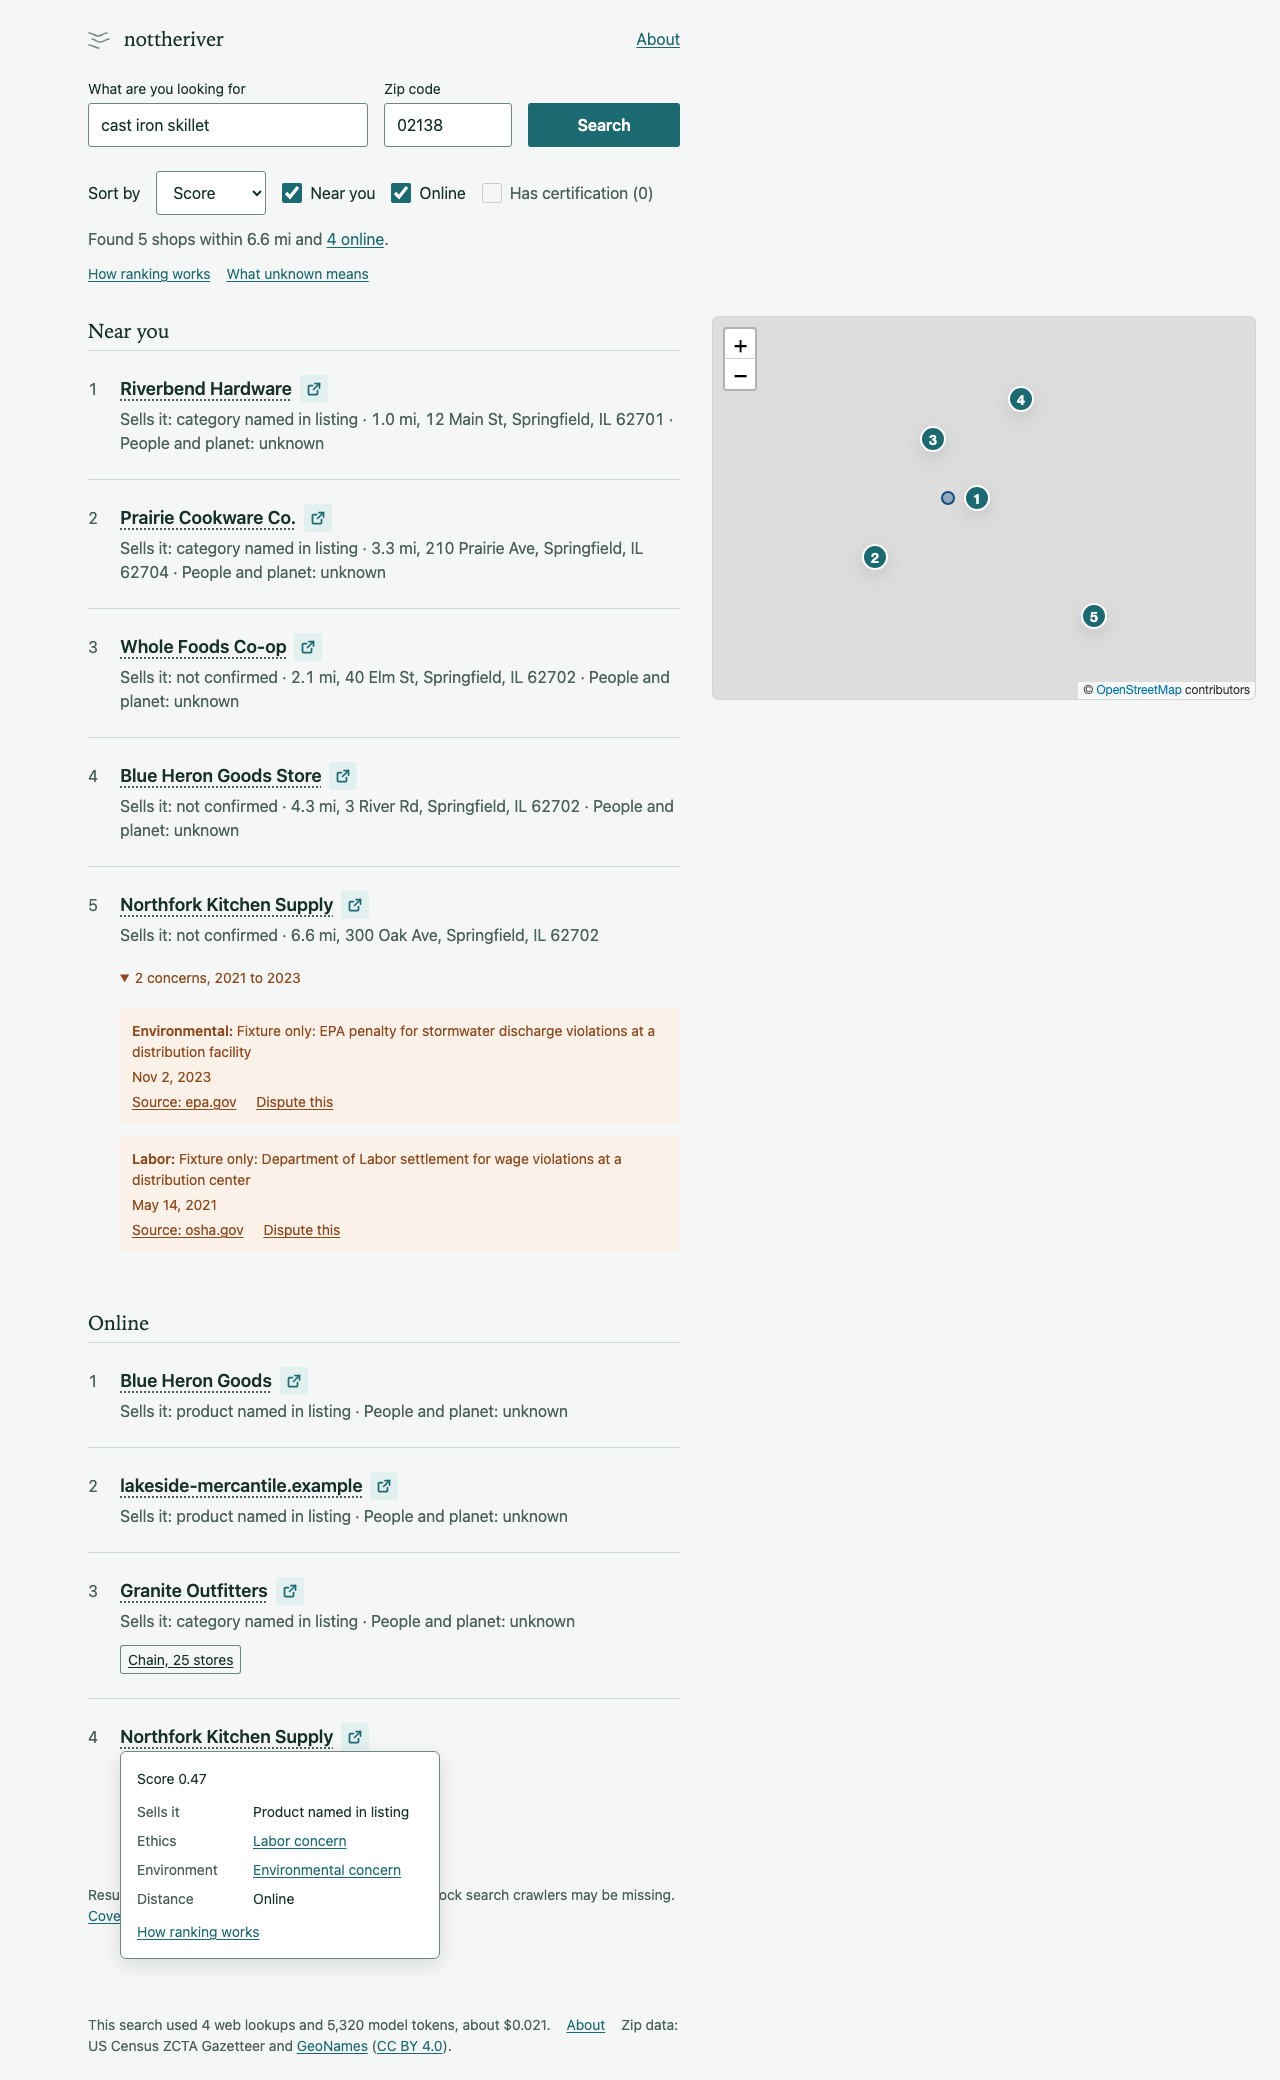
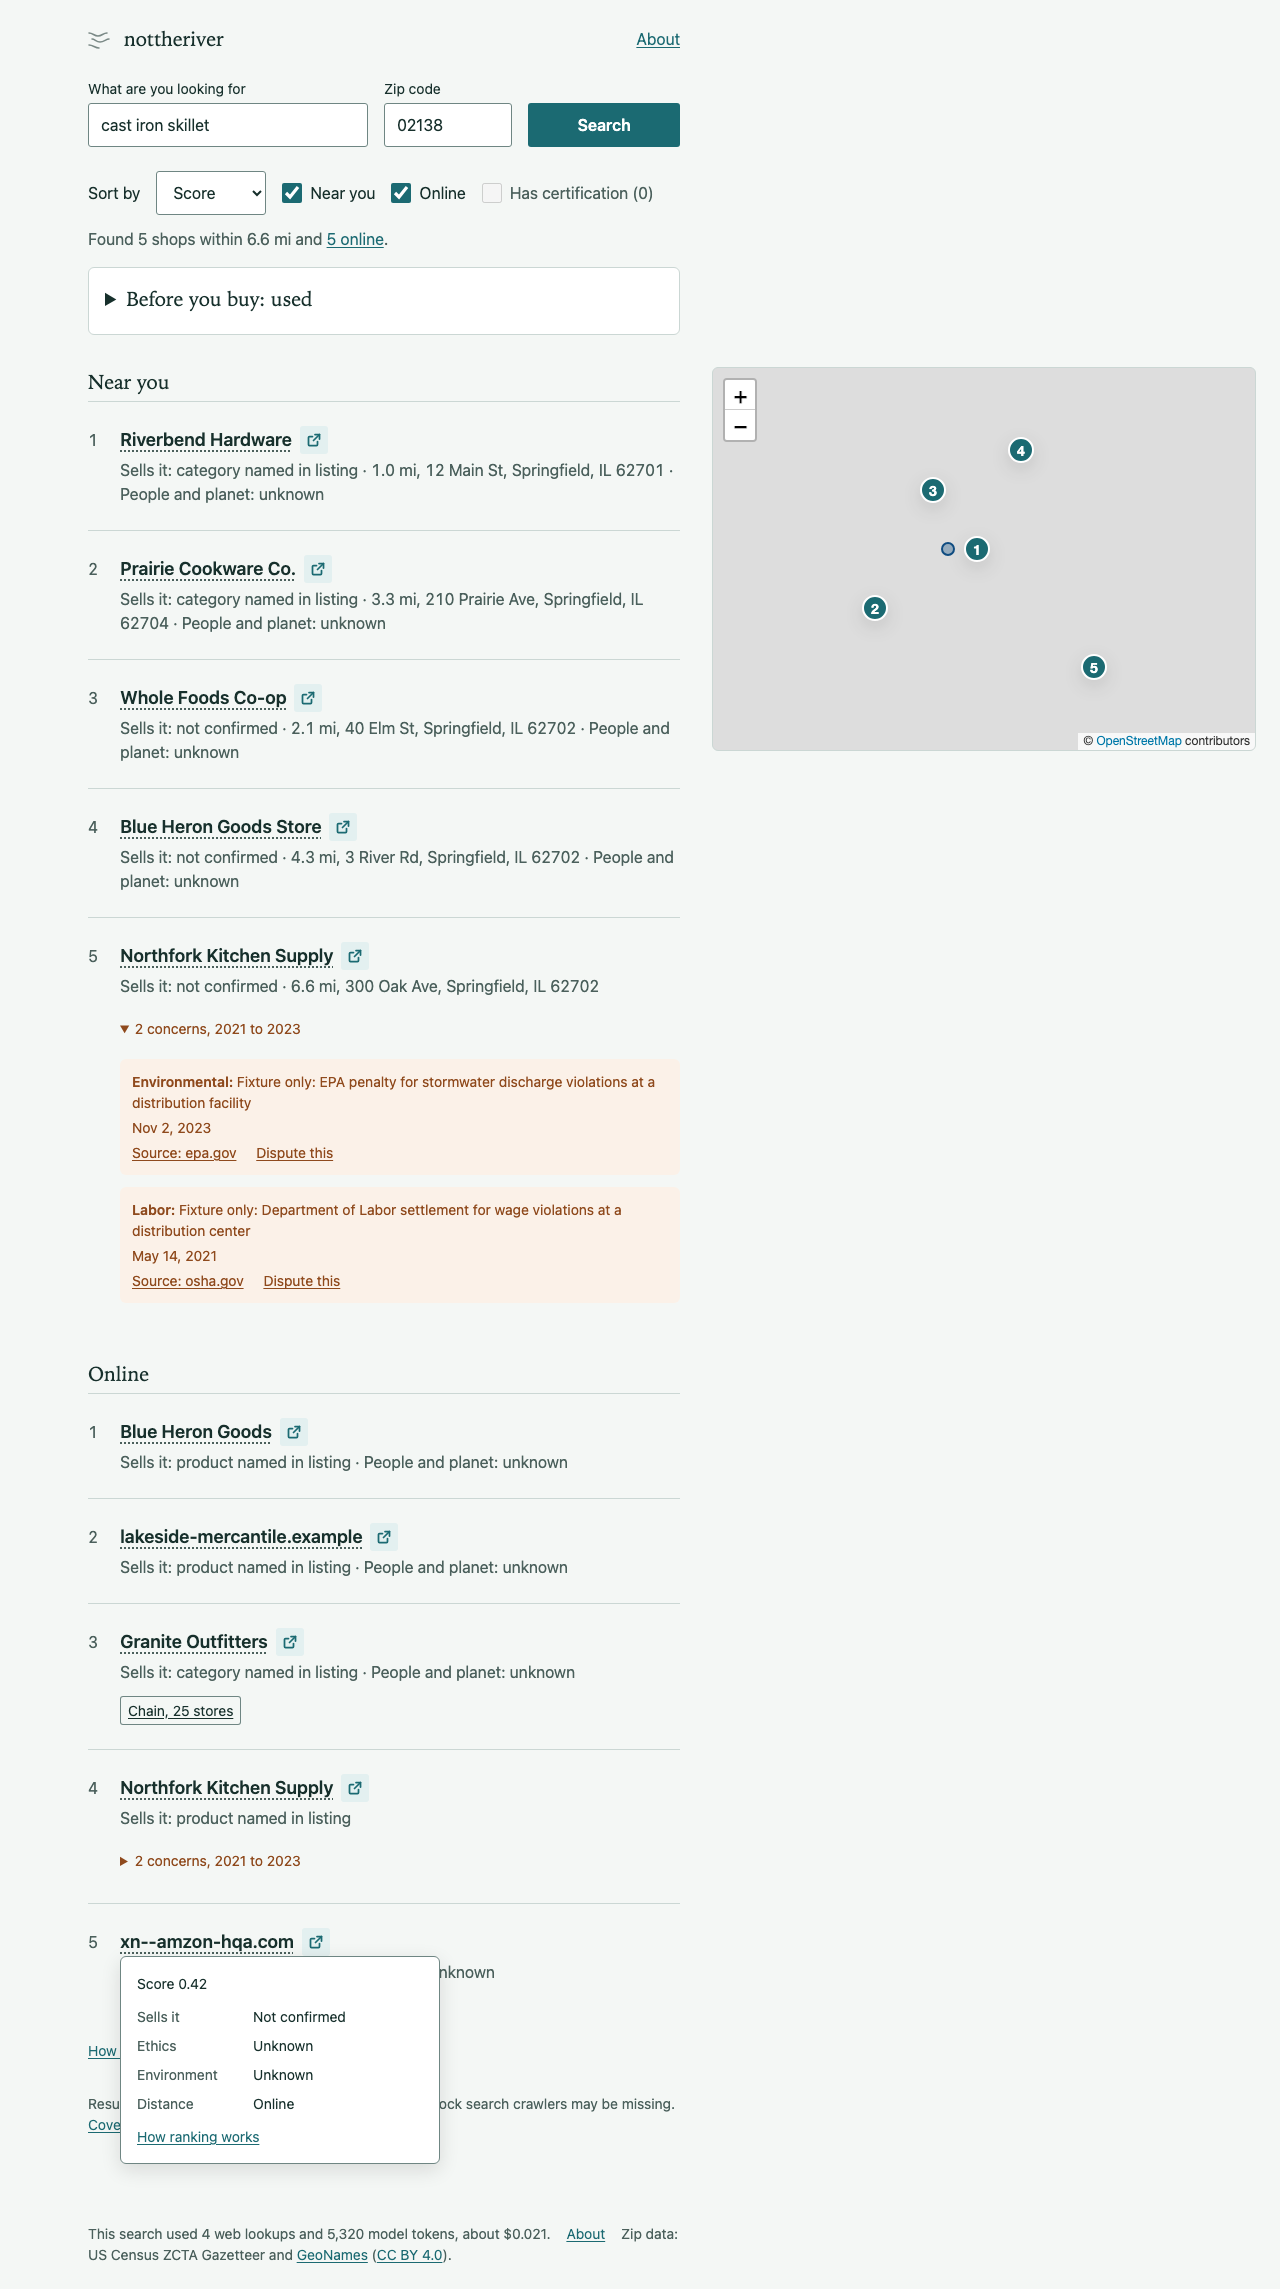
feat(results): move help links below the lists and box "Before you buy"
The ranking and "unknown" help line now follows the shop lists. "Before you
buy" sits in a panel with the surface fill and a serif heading, so it holds
attention beside the lists; the spec records the owner's ruling.

Claude-Session: https://claude.ai/code/session_01CkQcP2jfMX99Miq1n6AU7Q

diff --git a/src/styles.css b/src/styles.css
@@ -182,7 +182,7 @@ input[aria-invalid="true"] { border-color: var(--warn); border-width: 2px; }
 input[type="checkbox"] { accent-color: var(--accent); width: 1.25rem; height: 1.25rem; margin: 0; }
 .controls label:has(:disabled) { color: var(--ink-muted); }
 .coverage-note, .results-help-text { color: var(--ink-muted); font-size: var(--text-sm); margin: var(--space-6) 0 0; }
-.results-help { display: flex; flex-wrap: wrap; gap: 0 var(--space-4); font-size: var(--text-sm); margin: var(--space-3) 0 0; }
+.results-help { display: flex; flex-wrap: wrap; gap: 0 var(--space-4); font-size: var(--text-sm); margin: var(--space-6) 0 0; }
 .results-help-text { margin-top: var(--space-1); }
 /* A button that opens something in place, dressed as the links it sits beside. */
 .link-button { font: inherit; color: var(--accent); background: none; border: 0; padding: 0; cursor: pointer; text-decoration: underline; text-underline-offset: 0.15em; }
@@ -363,9 +363,10 @@ section h3 { font-family: var(--font-voice); font-weight: 400; font-size: var(--
 .site-footer p { margin: 0; }
 .site-footer p > * { margin-right: var(--space-3); }
 
-/* "Before you buy": a plain disclosure line, no box or accent, so it does not read as a ranked slot. */
-.ideas { margin: var(--space-3) 0 0; }
-.ideas summary { cursor: pointer; padding-block: var(--space-2); width: fit-content; }
+/* "Before you buy": a boxed panel so it holds its own beside the shop lists. No rank, score or
+   accent color, and not the picked-shop tint (--badge-bg), so it does not read as a ranked slot. */
+.ideas { margin: var(--space-4) 0 0; padding: var(--space-2) var(--space-4) var(--space-3); background: var(--surface); border: 1px solid var(--rule); border-radius: var(--radius-panel); }
+.ideas summary { cursor: pointer; padding-block: var(--space-2); width: fit-content; font-family: var(--font-voice); font-size: var(--text-lg); }
 .ideas-note { color: var(--ink-muted); font-size: var(--text-sm); margin: 0 0 var(--space-2); }
 .ideas-list { margin: 0; padding-left: 1.25rem; }
 .ideas-list li + li { margin-top: var(--space-1); }

diff --git a/src/render.test.ts b/src/render.test.ts
@@ -295,10 +295,10 @@ describe('renderResults (HR5)', () => {
   const unknownToggle = (el: ParentNode = root) => el.querySelector<HTMLButtonElement>('[data-unknown-toggle]');
   const unknownHelp = (el: ParentNode = root) => el.querySelector<HTMLElement>('[data-unknown-help]');
 
-  it('puts one help line above the lists: the ranking link, then "What unknown means"', () => {
+  it('puts one help line below the lists: the ranking link, then "What unknown means"', () => {
     const lines = root.querySelectorAll('[data-results-help]');
     expect(lines).toHaveLength(1);
-    expect(root.firstElementChild).toBe(lines[0]);
+    expect(lines[0]!.previousElementSibling).toBe(root.querySelector('section:last-of-type'));
     const [link, button] = [...lines[0]!.children];
     expect(link!.textContent).toBe('How ranking works');
     expect(link!.getAttribute('href')).toBe('about.html#ranking');
@@ -306,7 +306,7 @@ describe('renderResults (HR5)', () => {
     expect(button!.textContent).toBe('What unknown means');
   });
 
-  it('shows neither the weights nor a count of records above the lists', () => {
+  it('shows neither the weights nor a count of records with the lists', () => {
     expect(root.textContent).not.toContain('Ranked by');
     expect(root.textContent).not.toContain('people-and-planet record');
     for (const w of new Set(Object.values(response.weights))) expect(root.textContent).not.toContain(w.toFixed(2));

diff --git a/src/render.ts b/src/render.ts
@@ -304,7 +304,7 @@ export function renderResult(result: SearchResult, config: RenderConfig): HTMLLI
   return item;
 }
 
-// One line of help above the lists. "What unknown means" is offered only while a shop on screen
+// One line of help below the lists. "What unknown means" is offered only while a shop on screen
 // is unknown, and opens in place: a link to the About page would cost the visitor the results.
 function resultsHelp(shown: SearchResult[], open: boolean): HTMLElement[] {
   const line = el('p', { className: 'results-help', data: { resultsHelp: '' } }, internal(RANKING_HELP, 'How ranking works'));
@@ -490,9 +490,9 @@ export function renderResults(
   // The explanation of "unknown" reads the same for any search, so it stays open across them too.
   const helpOpen = root.querySelector<HTMLElement>('[data-unknown-help]')?.hidden === false;
   root.replaceChildren(
-    ...resultsHelp([...shown.local, ...shown.farther, ...shown.online], helpOpen),
     near,
     section('online', 'Online', response.online, shown.online, view.online, config),
+    ...resultsHelp([...shown.local, ...shown.farther, ...shown.online], helpOpen),
   );
   wirePopovers(root, before?.panels);
   for (const item of before ? root.querySelectorAll<HTMLElement>('[data-result]') : []) {

diff --git a/docs/plans/before-you-buy-v1.md b/docs/plans/before-you-buy-v1.md
@@ -209,7 +209,7 @@ Near you
 | STR-6 | Rain jacket | Line: "Before you buy: repair, used". "Repair the one you have. Repair cafés are free meeting places where volunteers often help fix clothes, furniture, bicycles, appliances and electronics." "Buy it used. Thrift stores often sell donated clothes, housewares, books and furniture." |
 | STR-7 | Child car seat | Nothing, and no reason |
 
-Order is fixed: borrow, repair, used, the order of the owner's sentence in row V0. No rank number, score, box, icon, accent color or comparative word ("better", "instead"), so the list does not read as a ranked or featured slot (lens 13 NEV-1 to NEV-4). The word "likely" appears nowhere: the results page already prints "Likely, by shop type" for a shop (`src/render.ts:107`). The note does not use "unknown": G3 defines Unknown as "Nothing found" (`docs/goals.md:65`) and the help text ties it to a shop's record (`src/render.ts:314`), while here nothing was looked up.
+Order is fixed: borrow, repair, used, the order of the owner's sentence in row V0. No rank number, score, icon, accent color or comparative word ("better", "instead"), so the list does not read as a ranked or featured slot (lens 13 NEV-1 to NEV-4). Owner ruling 2026-11-18: the line sits in a box with the white panel fill (`--surface`) and a larger serif heading, so it competes with the shop lists for attention; the box uses no accent color and not the picked-shop tint. The word "likely" appears nowhere: the results page already prints "Likely, by shop type" for a shop (`src/render.ts:107`). The note does not use "unknown": G3 defines Unknown as "Nothing found" (`docs/goals.md:65`) and the help text ties it to a shop's record (`src/render.ts:314`), while here nothing was looked up.
 
 **Departures from site patterns** (lens 13 PDEP-1 to PDEP-6; critique CRIT-10). DEP-1 to DEP-3 arise only in stage two.
 
